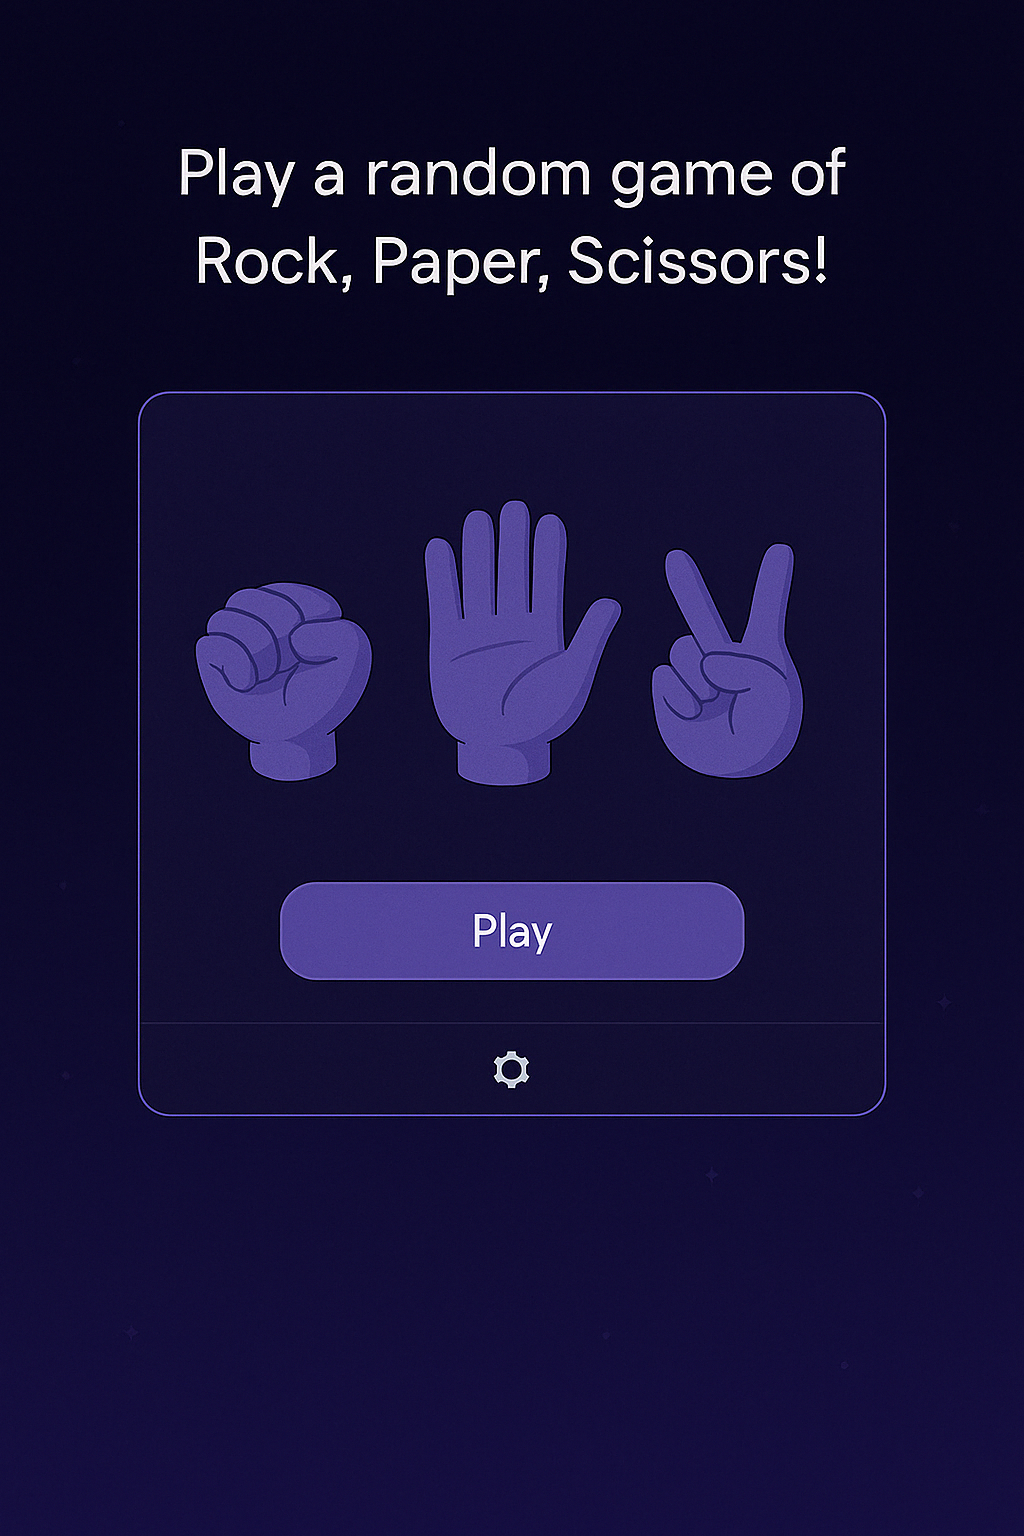
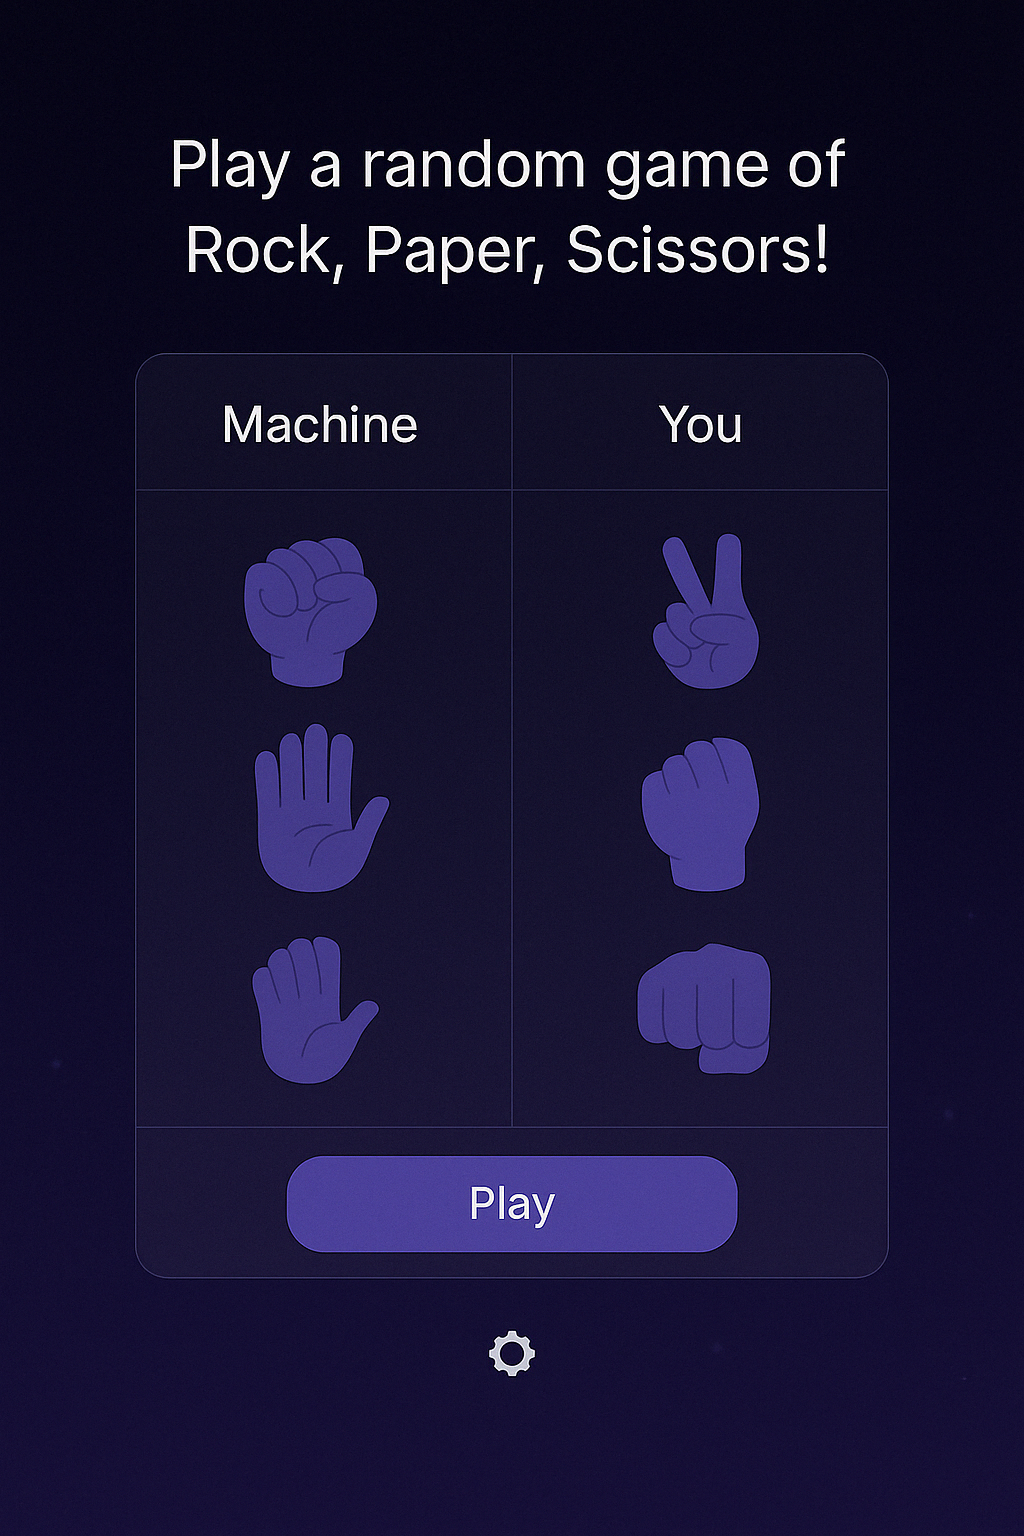
feat: add rock-paper-scissors tool page

Changed region(s): [[0.125, 0.25, 0.875, 0.9062], [0.1562, 0.0938, 0.8438, 0.1875]]

diff --git a/app/rock-paper-scissors/page.tsx b/app/rock-paper-scissors/page.tsx
@@ -1,0 +1,255 @@
+"use client";
+
+import React, { useState, useEffect } from "react";
+import { Button } from "@/components/ui/button";
+import { Card } from "@/components/ui/card";
+import Link from "next/link";
+import Image from "next/image";
+import { Switch } from "@/components/ui/switch";
+import { Navigation } from "@/components/navigation";
+import { Footer } from "@/components/footer";
+import { getToolBySlug } from "@/data/tools";
+
+export default function RockPaperScissorsPage() {
+  // Get current tool information
+  const currentTool = getToolBySlug('rock-paper-scissors');
+
+  // State for game
+  const [userChoice, setUserChoice] = useState<'rock' | 'paper' | 'scissors' | null>(null);
+  const [computerChoice, setComputerChoice] = useState<'rock' | 'paper' | 'scissors' | null>(null);
+  const [result, setResult] = useState<'win' | 'lose' | 'draw' | null>(null);
+  const [isPlaying, setIsPlaying] = useState<boolean>(false);
+  const [soundEnabled, setSoundEnabled] = useState<boolean>(false);
+  const [gameCount, setGameCount] = useState<number>(0);
+  const [stats, setStats] = useState({ wins: 0, losses: 0, draws: 0 });
+  const [isMobileMenuOpen, setIsMobileMenuOpen] = useState(false);
+  const [slotMachineIndex, setSlotMachineIndex] = useState<number>(0);
+  const [slotMachineInterval, setSlotMachineInterval] = useState<NodeJS.Timeout | null>(null);
+
+  const toggleMobileMenu = () => {
+    setIsMobileMenuOpen(!isMobileMenuOpen);
+  };
+
+  const choices = ['rock', 'paper', 'scissors'];
+
+  const getChoiceImage = (choice: 'rock' | 'paper' | 'scissors' | null) => {
+    if (!choice) return '/images/rps.png';
+    return `/images/${choice}.png`;
+  };
+
+  const determineWinner = (user: 'rock' | 'paper' | 'scissors', computer: 'rock' | 'paper' | 'scissors') => {
+    if (user === computer) return 'draw';
+    if (
+      (user === 'rock' && computer === 'scissors') ||
+      (user === 'paper' && computer === 'rock') ||
+      (user === 'scissors' && computer === 'paper')
+    ) {
+      return 'win';
+    }
+    return 'lose';
+  };
+
+  const playGame = (userSelection: 'rock' | 'paper' | 'scissors') => {
+    if (isPlaying) return; // Prevent playing while already in progress
+
+    setIsPlaying(true);
+    setUserChoice(userSelection);
+    setComputerChoice(null);
+    setResult(null);
+    setGameCount(prev => prev + 1);
+
+    // Play sound if enabled
+    if (soundEnabled) {
+      const audio = new Audio('/sounds/rock-paper-scissors.mp3');
+      audio.play();
+    }
+
+    // Start slot machine animation
+    if (slotMachineInterval) {
+      clearInterval(slotMachineInterval);
+    }
+
+    const interval = setInterval(() => {
+      setSlotMachineIndex(prev => (prev + 1) % 3);
+    }, 100); // Change image every 100ms
+
+    setSlotMachineInterval(interval);
+
+    // Simulate computer thinking
+    const gameDuration = 1000; // milliseconds
+    const randomIndex = Math.floor(Math.random() * 3);
+    const computerSelection = choices[randomIndex] as 'rock' | 'paper' | 'scissors';
+
+    setTimeout(() => {
+      // Stop slot machine animation
+      if (slotMachineInterval) {
+        clearInterval(slotMachineInterval);
+        setSlotMachineInterval(null);
+      }
+
+      setComputerChoice(computerSelection);
+      const gameResult = determineWinner(userSelection, computerSelection);
+      setResult(gameResult);
+
+      // Update stats
+      setStats(prev => ({
+        ...prev,
+        wins: gameResult === 'win' ? prev.wins + 1 : prev.wins,
+        losses: gameResult === 'lose' ? prev.losses + 1 : prev.losses,
+        draws: gameResult === 'draw' ? prev.draws + 1 : prev.draws,
+      }));
+
+      // Play result sound if enabled
+      if (soundEnabled) {
+        const resultSound = gameResult === 'win' ? 'win' : gameResult === 'lose' ? 'lose' : 'draw';
+        const audio = new Audio(`/sounds/${resultSound}.mp3`);
+        audio.play();
+      }
+
+      setIsPlaying(false);
+    }, gameDuration);
+  };
+
+  const getResultText = () => {
+    if (!result) return '';
+    if (result === 'win') return 'You win!';
+    if (result === 'lose') return 'You lose!';
+    return 'It\'s a draw!';
+  };
+
+  return (
+    <div className="flex flex-col min-h-screen bg-[#0D0D23]">
+      {/* Navigation */}
+      <Navigation />
+
+      {/* Main Content */}
+      <main className="flex-1 flex flex-col items-center justify-center py-12 px-4 mt-16">
+        <h1 className="text-4xl md:text-5xl font-bold mb-4 text-white">{currentTool?.name || 'Rock Paper Scissors'}</h1>
+        <p className="text-xl text-gray-300 mb-12">{currentTool?.description || 'Play a quick game of Rock Paper Scissors to settle decisions.'}</p>
+
+        {/* Game Card */}
+        <Card className="w-full max-w-md bg-[#1A1A3A] border-[#3D3D6B] text-white rounded-xl overflow-hidden">
+          {/* Game Display Area */}
+          <div className="p-6 flex justify-between items-center">
+            <div className="text-center">
+              <h3 className="text-lg mb-2">Decidely</h3>
+              <div className="relative w-24 h-24 mx-auto">
+                <Image
+                  src={isPlaying ? getChoiceImage(choices[slotMachineIndex] as 'rock' | 'paper' | 'scissors') : getChoiceImage(computerChoice as 'rock' | 'paper' | 'scissors')}
+                  alt={computerChoice || 'Decidely choice'}
+                  width={96}
+                  height={96}
+                  className={`object-contain transition-all duration-300 ${isPlaying ? 'animate-pulse' : ''}`}
+                  priority
+                />
+              </div>
+            </div>
+
+            {/* Result Display */}
+            <div className="text-center flex-shrink-0 px-2">
+              {result ? (
+                <h2 className={`text-2xl font-bold ${result === 'win' ? 'text-green-400' : result === 'lose' ? 'text-red-400' : 'text-yellow-400'}`}>
+                  {getResultText()}
+                </h2>
+              ) : (
+                <div className="h-8 flex items-center justify-center">
+                  <span className="text-xl text-gray-400">VS</span>
+                </div>
+              )}
+            </div>
+
+            <div className="text-center">
+              <h3 className="text-lg mb-2">You</h3>
+              <div className="relative w-24 h-24 mx-auto">
+                <Image
+                  src={getChoiceImage(userChoice as 'rock' | 'paper' | 'scissors')}
+                  alt={userChoice || 'Your choice'}
+                  width={96}
+                  height={96}
+                  className="object-contain transition-all duration-300"
+                  priority
+                />
+              </div>
+            </div>
+          </div>
+
+          {/* Choice Buttons */}
+          <div className="grid grid-cols-3 gap-2 px-6 py-4">
+            <Button
+              onClick={() => playGame('rock')}
+              disabled={isPlaying}
+              className="bg-[#6C5DD3] hover:bg-[#5A4BBF] text-white py-4"
+            >
+              <Image src="/images/rock.png" alt="Rock" width={40} height={40} className="mx-auto" />
+            </Button>
+            <Button
+              onClick={() => playGame('paper')}
+              disabled={isPlaying}
+              className="bg-[#6C5DD3] hover:bg-[#5A4BBF] text-white py-4"
+            >
+              <Image src="/images/paper.png" alt="Paper" width={40} height={40} className="mx-auto" />
+            </Button>
+            <Button
+              onClick={() => playGame('scissors')}
+              disabled={isPlaying}
+              className="bg-[#6C5DD3] hover:bg-[#5A4BBF] text-white py-4"
+            >
+              <Image src="/images/scissors.png" alt="Scissors" width={40} height={40} className="mx-auto" />
+            </Button>
+          </div>
+
+          {/* Play Button */}
+          <div className="px-6 pb-4">
+            <Button
+              onClick={() => {
+                // If user has already made a choice, use that choice
+                // Otherwise, select a random choice
+                const choice = userChoice || choices[Math.floor(Math.random() * 3)] as 'rock' | 'paper' | 'scissors';
+                playGame(choice);
+              }}
+              disabled={isPlaying}
+              className="w-full bg-[#6C5DD3] hover:bg-[#5A4BBF] text-white py-6"
+            >
+              Play
+            </Button>
+          </div>
+
+          {/* Sound Option */}
+          <div className="border-t border-[#3D3D6B] px-6 py-4">
+            <div className="flex justify-between items-center py-2">
+              <span className="text-white">Sound</span>
+              <Switch
+                checked={soundEnabled}
+                onCheckedChange={setSoundEnabled}
+                className="data-[state=checked]:bg-[#6C5DD3]"
+              />
+            </div>
+          </div>
+        </Card>
+
+        {/* Stats */}
+        {gameCount > 0 && (
+          <div className="mt-8 text-center text-gray-300">
+            <p>Total games: {gameCount}</p>
+            <p>Wins: {stats.wins} | Losses: {stats.losses} | Draws: {stats.draws}</p>
+          </div>
+        )}
+      </main>
+
+      {/* Footer */}
+      <Footer className="bg-[#0A0A1B] text-gray-400" />
+
+      {/* Animation Styles */}
+      <style jsx global>{`
+        @keyframes pulse {
+          0% { transform: scale(1); }
+          50% { transform: scale(1.1); }
+          100% { transform: scale(1); }
+        }
+        .animate-pulse {
+          animation: pulse 0.5s infinite;
+        }
+      `}</style>
+    </div>
+  );
+}

diff --git a/components/navigation.tsx b/components/navigation.tsx
@@ -27,7 +27,7 @@ export function Navigation({ className = "" }: NavigationProps) {
           <Link href="/" className="hover:text-primary transition-colors">
             Home
           </Link>
-          <Link href="/tools" className="hover:text-primary transition-colors">
+          <Link href="/all-tools" className="hover:text-primary transition-colors">
             All Tools
           </Link>
           <Link href="/ask-decidely" className="hover:text-primary transition-colors">
@@ -49,30 +49,30 @@ export function Navigation({ className = "" }: NavigationProps) {
       {isMobileMenuOpen && (
         <div className="md:hidden absolute top-16 left-0 w-full bg-background shadow-md py-4 px-4">
           <div className="flex flex-col space-y-4">
-            <Link 
-              href="/" 
-              className="text-foreground/80 hover:text-primary transition-colors block" 
+            <Link
+              href="/"
+              className="text-foreground/80 hover:text-primary transition-colors block"
               onClick={() => setIsMobileMenuOpen(false)}
             >
               Home
             </Link>
-            <Link 
-              href="/tools" 
-              className="text-foreground/80 hover:text-primary transition-colors block" 
+            <Link
+              href="/all-tools"
+              className="text-foreground/80 hover:text-primary transition-colors block"
               onClick={() => setIsMobileMenuOpen(false)}
             >
               All Tools
             </Link>
-            <Link 
-              href="/ask-decidely" 
-              className="text-foreground/80 hover:text-primary transition-colors block" 
+            <Link
+              href="/ask-decidely"
+              className="text-foreground/80 hover:text-primary transition-colors block"
               onClick={() => setIsMobileMenuOpen(false)}
             >
               Ask Decidely
             </Link>
-            <Link 
-              href="/blog" 
-              className="text-foreground/80 hover:text-primary transition-colors block" 
+            <Link
+              href="/blog"
+              className="text-foreground/80 hover:text-primary transition-colors block"
               onClick={() => setIsMobileMenuOpen(false)}
             >
               Blog
